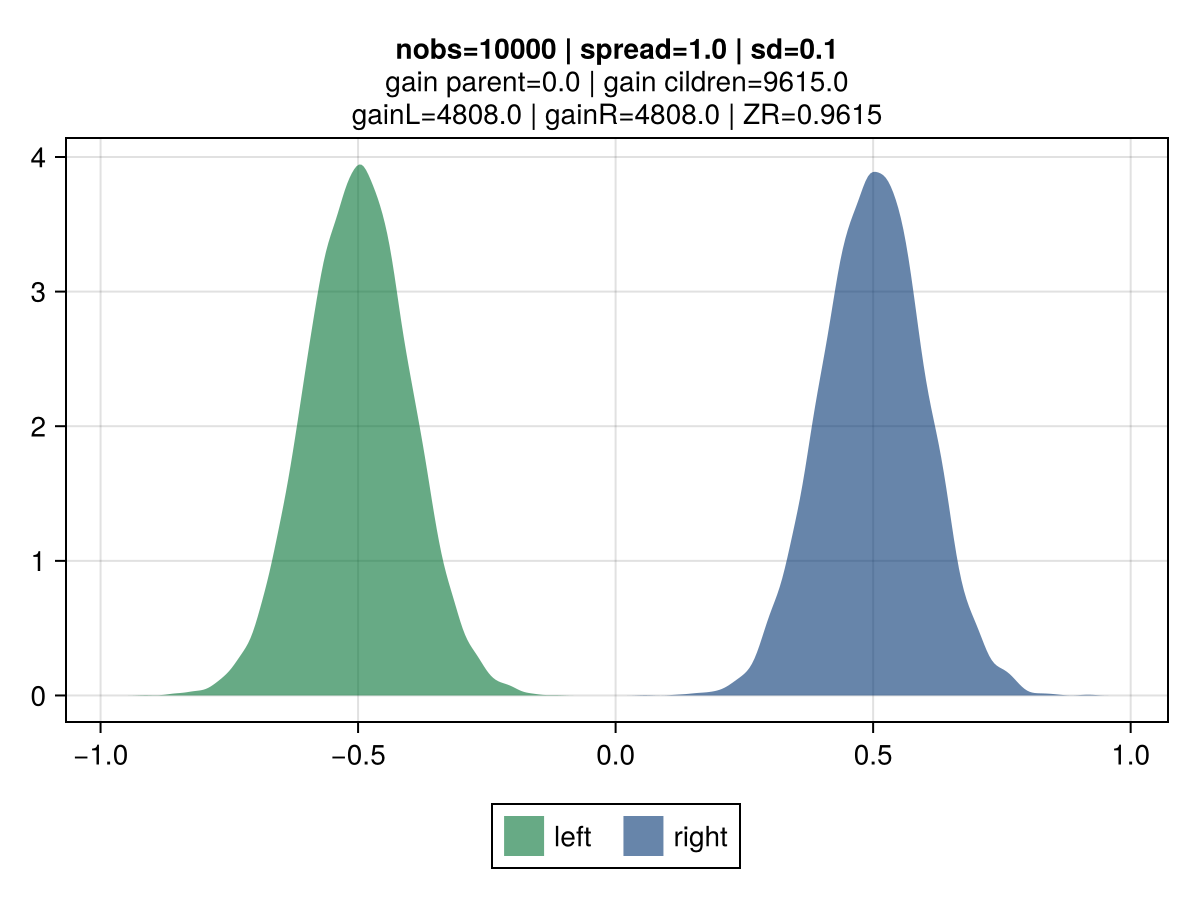
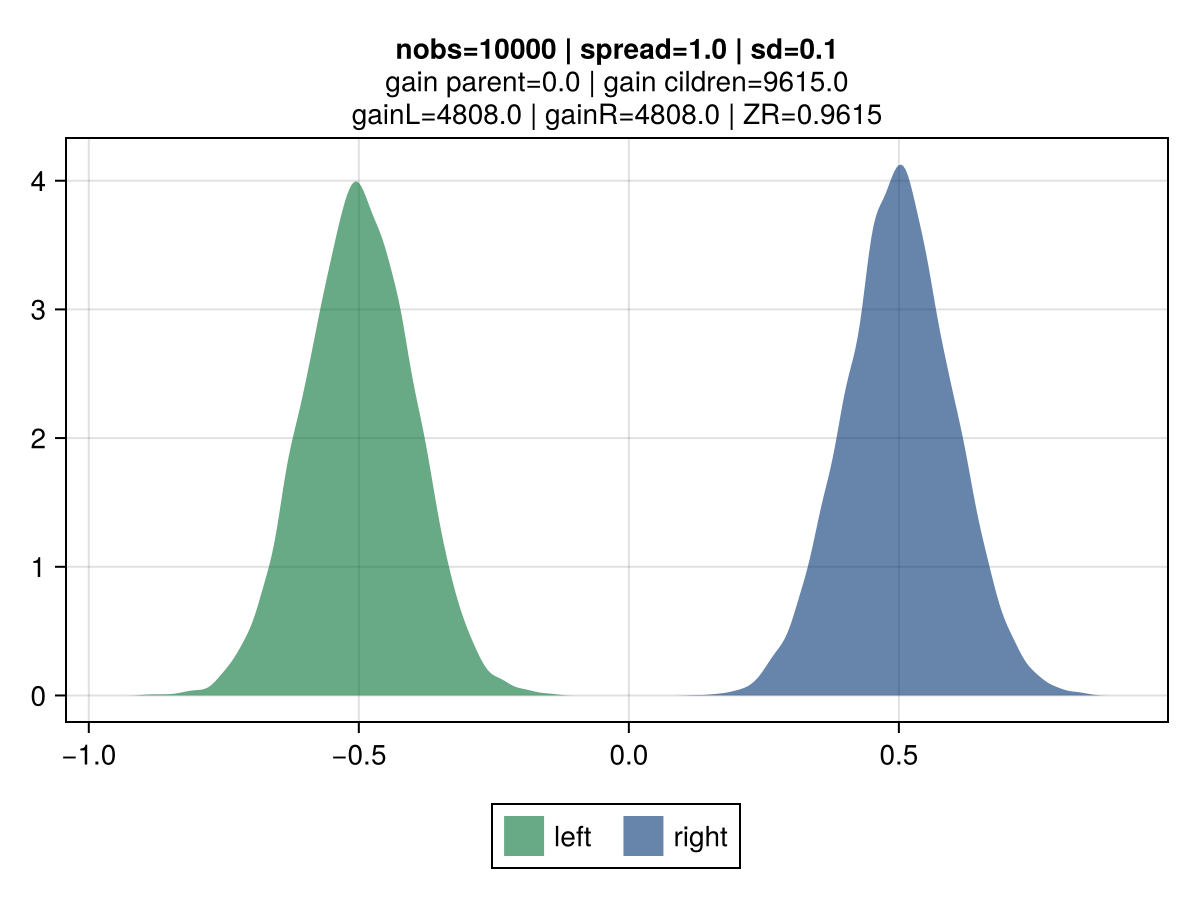
up

diff --git a/blog/cred/README.md b/blog/cred/README.md
@@ -1,48 +1,35 @@
 # Exploring a credibility-based approach for tree-gain estimation
 
 
-````
-get_cred_figure (generic function with 1 method)
-````
-
 The motivation for this experiment stems from potential shortfalls in approach used in gradient-boosted trees to assess the best split potential.
 
-## MSE gains
+The figures below illustrate the behavior of vanilla gradient-based approach using a mean-squarred error (MSE) loss.
+The 2 colors represent the observations belonging to the left and right children.
+
+Key observations:
+- **the gain is invariant to the volatility**: the top vs bottom figures differs only by the std dev of the observations.
+    The associated gain is identical, which is aligned with the gradient-based approach to gain: the gain matches the reduction in the MSE, which is identical regardless of the dispersion. It's strictly driven by their mean.
+- **the gain scales linearly with the number of observations**: the right vs left figures contrasts different number of observations (100 vs 10k), and show that gain is directly proportional.
 
 ````julia
 loss = :mse
-
-f = get_dist_figure(; loss, nobs=100, spread=1.0, sd=1.0)
-save(joinpath(@__DIR__, "assets", "dist-mse-1.png"), f)
-f = get_dist_figure(; loss, nobs=10_000, spread=1.0, sd=1.0)
-save(joinpath(@__DIR__, "assets", "dist-mse-2.png"), f)
-
-f = get_dist_figure(; loss, nobs=100, spread=1.0, sd=0.1)
-save(joinpath(@__DIR__, "assets", "dist-mse-1B.png"), f)
-f = get_dist_figure(; loss, nobs=10_000, spread=1.0, sd=0.1)
-save(joinpath(@__DIR__, "assets", "dist-mse-2B.png"), f);
 ````
 
-| ![](assets/dist-mse-2.png) | ![](assets/dist-mse-3.png) |
+| ![](assets/dist-mse-1.png) | ![](assets/dist-mse-2.png) |
 |:----------------------:|:----------------------:|
-| ![](assets/dist-mse-2B.png) | ![](assets/dist-mse-3B.png) |
+| ![](assets/dist-mse-2B.png) | ![](assets/dist-mse-2B.png) |
 
 ## Credibility-based gains
 
 The idea is for the *gain* to reflect varying uncertainty levels for observations associated to each of the tree-split candidates.
+For tree-split candidates with an identical spread, the intuition is that split-candidates with a lower volatility, all other things being equal, should be preferred.
+The original inspiration comes from credibility theory, a foundational notion in actuarial science with direct connexion mixed effect models and bayesian theory.
+Key concept is that the credibility associated with a set of observations is driven by the relative effect of 2 components:
+ - **Variance of the Hypothetical Means (VHM)**: if large differences between candidates are expected, then a greater credibility will be assigned to that candidate.
+ - **Expected Value of the Process Variance (EVPV)**: if the data generation process of a given candidate has a large volatility, a  smaller credibility will be assigned.
 
 ````julia
 loss = :credV1A
-
-f = get_dist_figure(; loss, nobs=100, spread=1.0, sd=1.0)
-save(joinpath(@__DIR__, "assets", "dist-cred-2.png"), f)
-f = get_dist_figure(; loss, nobs=10_000, spread=1.0, sd=1.0)
-save(joinpath(@__DIR__, "assets", "dist-cred-3.png"), f);
-
-f = get_dist_figure(; loss, nobs=100, spread=1.0, sd=0.1)
-save(joinpath(@__DIR__, "assets", "dist-cred-2B.png"), f)
-f = get_dist_figure(; loss, nobs=10_000, spread=1.0, sd=0.1)
-save(joinpath(@__DIR__, "assets", "dist-cred-3B.png"), f);
 ````
 
 | ![](assets/dist-cred-2.png) | ![](assets/dist-cred-3.png) |
@@ -52,20 +39,12 @@ save(joinpath(@__DIR__, "assets", "dist-cred-3B.png"), f);
 credibility figures
 
 ````julia
+# simulation grid
 sd = 1.0
 nobs_list = Int.(10.0 .^ (0:6))
 nobs_list[1] = 2
 spread_list = [0.001, 0.01, 0.1, 0.5, 1, 2, 10, 100]
 
-f = get_cred_figure(; loss=:credV1A, sd, nobs_list, spread_list)
-save(joinpath(@__DIR__, "assets", "heatmap-credV1A.png"), f);
-f = get_cred_figure(; loss=:credV2A, sd, nobs_list, spread_list)
-save(joinpath(@__DIR__, "assets", "heatmap-credV2A.png"), f);
-
-f = get_cred_figure(; loss=:credV1B, sd, nobs_list, spread_list)
-save(joinpath(@__DIR__, "assets", "heatmap-credV1B.png"), f);
-f = get_cred_figure(; loss=:credV2B, sd, nobs_list, spread_list)
-save(joinpath(@__DIR__, "assets", "heatmap-credV2B.png"), f);
 ````
 
 | ![](assets/heatmap-credV1A.png) | ![](assets/heatmap-credV2A.png) |
